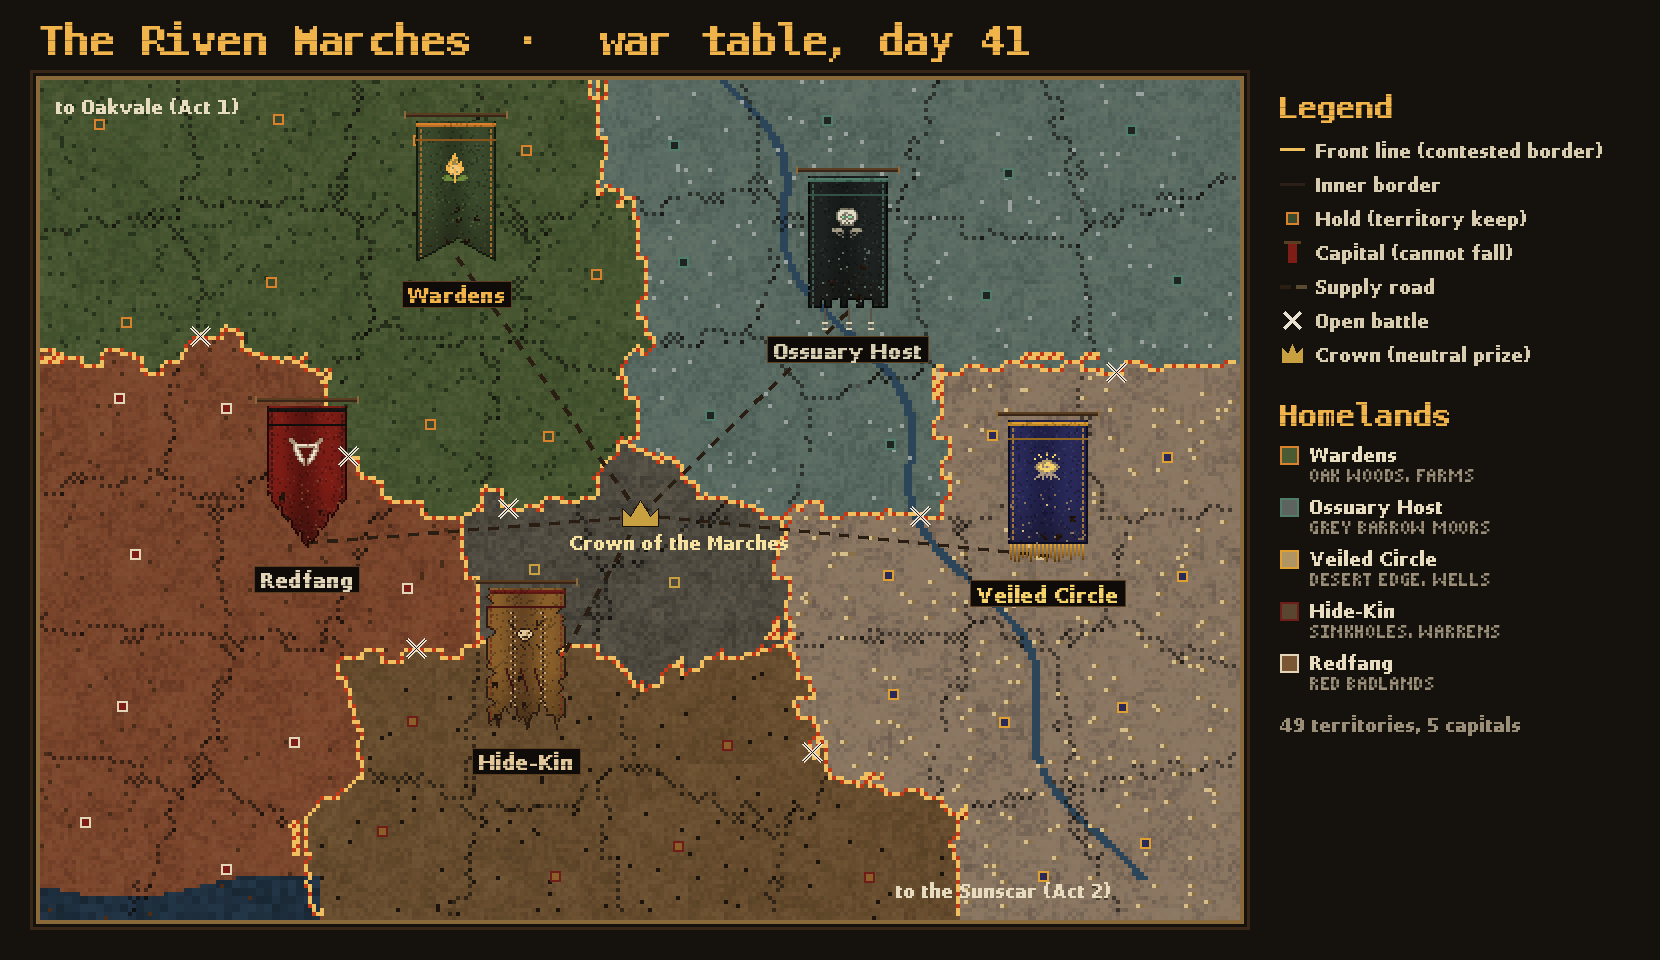
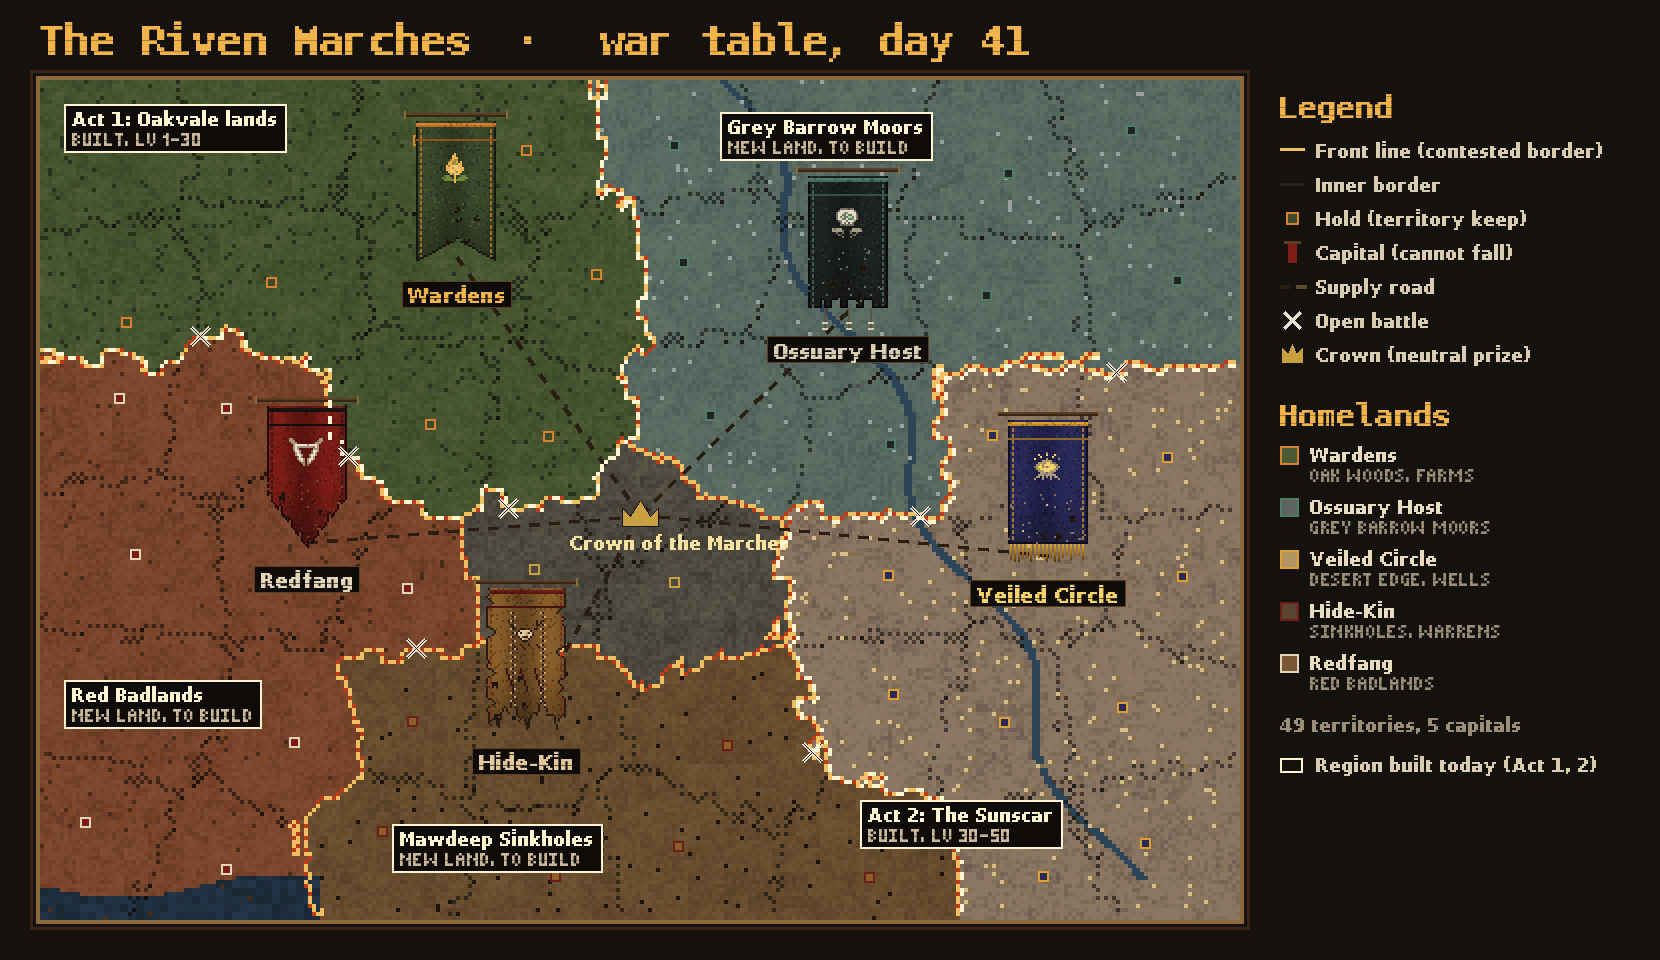
One continent: the acts become regions of the Riven Marches (design page v0.3, map, roadmap)
Claude-Session: https://claude.ai/code/session_01QnG6XwwN1yTMh8reiV1mrQ

diff --git a/client/public/design/riven-marches/index.html b/client/public/design/riven-marches/index.html
@@ -105,12 +105,12 @@ ul { margin: 0; padding-left: 20px; display: flex; flex-direction: column; gap: 
   <div class="eyebrow">Concept design · Clan war open world</div>
   <h1>The Riven Marches</h1>
   <p class="lede">A slow war that never ends, between five clans, across the whole world: Oakvale, the Sunscar and every act still to come. AI warlords lead the clans and try to conquer each other's territory. Left alone, they mostly hold each other in check. Players tip the balance by taking war writs, joining battles at the front, or escorting a single caravan.</p>
-  <div class="meta"><span>Version 0.2 · 14 Nov 2026 (Murat's decisions added)</span><span>Design only, no code changed</span><span>Built on the live game at play.fmtpa.ch</span></div>
+  <div class="meta"><span>Version 0.3 · 14 Nov 2026 (one continent, the acts are regions of it)</span><span>Building: see the roadmap</span><span>Built on the live game at play.fmtpa.ch</span></div>
 </header>
 
 <figure style="margin-top:28px">
-  <img class="px" src="img/riven-marches-map.png" alt="Pixel war-table map of the Riven Marches: five faction homelands around a neutral crown, with front lines in ember and battle markers on the borders">
-  <figcaption>War table sketch, showing the style (the real territories follow the zones of each act). Five capitals, the neutral Crown in the middle. Ember lines are front lines; crossed swords mark open battles.</figcaption>
+  <img class="px" src="img/riven-marches-map.png" alt="Pixel war-table map of the Riven Marches: five homelands around a neutral crown; Act 1 is the Wardens' homeland in the north-west, Act 2 the Veiled Circle's in the south-east, the other three are new lands">
+  <figcaption>The Riven Marches as one continent (sketch). Act 1 (Oakvale lands) is the Wardens' homeland, Act 2 (the Sunscar) the Veiled Circle's. The Grey Barrow Moors, the Red Badlands and the Mawdeep Sinkholes are new lands to build, with the Crown in the middle. Ember lines are front lines; crossed swords mark open battles.</figcaption>
 </figure>
 
 <section>
@@ -150,11 +150,12 @@ ul { margin: 0; padding-left: 20px; display: flex; flex-direction: column; gap: 
   <div class="eyebrow">The world</div>
   <h2>The whole world is the Marches</h2>
   <div class="col stack">
-    <p><b>Murat 2026-11-14:</b> the war runs across the full map, not in a separate region. Every monster zone of Act 1 and Act 2 becomes a territory, and every future act adds its zones as new regions of the same war. "The Riven Marches" is the name of the war and of the war table.</p>
-    <p><b>Territories.</b> About 24 in Act 1 (one per zone in <code>SPAWN_ZONES</code>, big zones split in two) and about 15 in Act 2. The owner decides which clan's troops spawn there, whose banners fly and whose writs are posted. Zone names, levels and quest areas stay as they are.</p>
+    <p><b>Murat 2026-11-14:</b> the Riven Marches is one big continent, and the acts are regions inside it. Act 1 (Oakvale lands) is the Wardens' homeland in the north-west, Act 2 (the Sunscar) the Veiled Circle's in the south-east. Three new lands complete it: the <b>Grey Barrow Moors</b> (Ossuary Host, north-east), the <b>Red Badlands</b> (Redfang, west) and the <b>Mawdeep Sinkholes</b> (Hide-Kin, south), with the <b>Crown of the Marches</b> in the middle. Each new land is built like an act: its own map band, zones, levels, a village and quests, reached by roads and waygates from its neighbours.</p>
+    <p><b>Territories.</b> Every monster zone of every region is a territory: 21 in Act 1 and 10 in Act 2 today, about 10 per new land, about 50 when the continent is complete. The owner decides which clan's troops spawn there, whose banners fly and whose writs are posted. Zone names, levels and quest areas stay as they are. Regions border each other on the war table even where the map bands are apart in the game (a waygate or road links them).</p>
+    <p><b>Until the new lands exist.</b> All five clans already fight over Act 1 and Act 2 (live since 14 Nov). Clans whose homeland is not built yet hold a forward capital there: Redfang Hollow, Greywatch Keep and Thornwood in Act 1, Dustrider Camp, Kharsun and the Humpback Mesas in Act 2. When a homeland is built, its capital moves there and the forward capital becomes an ordinary territory.</p>
     <p><b>Sanctuaries that never flip.</b> Villages (Oakvale, Saltmere, Kel Ashar), dungeons (Mawdeep, the deep crypts), quest-boss lairs and the waygates. New heroes can always level and finish the story; the war is around them, not in their way.</p>
     <p><b>Levels.</b> Each territory keeps its zone level. Clan troops spawn at that level, so a level 8 meadow is a small skirmish and a level 45 dune is a hard front. Players fight where their level fits; high-level heroes can push low territories but earn little there.</p>
-    <p><b>Crowns.</b> One ruined stronghold per act (to pick with the map thread, outside any boss lair) is a Crown: a neutral prize that gives the holder a world-wide boon while held.</p>
+    <p><b>The Crown.</b> The Crown of the Marches, a ruined stronghold in the middle of the continent, is a neutral prize that gives its holder a world-wide boon while held. Until the Crown is built, one ruin per act stands in for it.</p>
   </div>
   <div class="two">
     <div class="stack">
@@ -171,7 +172,7 @@ ul { margin: 0; padding-left: 20px; display: flex; flex-direction: column; gap: 
       <h3>Special places</h3>
       <ul>
         <li><b>Capitals.</b> One per clan. They can be besieged but never fall, so no clan is ever wiped out.</li>
-        <li><b>Crowns.</b> One per act. Holding one gives a world-wide boon for the holder's sworn heroes while it is held.</li>
+        <li><b>The Crown.</b> In the middle of the continent. Holding it gives a world-wide boon for the holder's sworn heroes while it is held.</li>
         <li><b>Warrens.</b> Hide-Kin tunnels that link territories that aren't next to each other. They can be found and collapsed.</li>
         <li><b>Wells and oases.</b> Veiled ritual sites that change weather over nearby territories.</li>
       </ul>
@@ -561,7 +562,8 @@ supply(A)   = 1 / (1 + 0.06 × road distance from capital)    ← overextension<
   <h2>Building it in steps</h2>
   <div class="phases">
     <div class="phase"><div class="n">0</div><div><h3>Foundations</h3><p>Saves to a database, war state as its own small service, a war sim in <code>tools/balance</code>. Nothing visible to players yet.</p></div></div>
-    <div class="phase"><div class="n">1</div><div><h3>The Marches and scripted clans</h3><p>The map band, 49 territories, Holds, standards, ticks and sieges, led by simple scripted doctrine. Prove the stalemate in the sim and live.</p></div></div>
+    <div class="phase"><div class="n">1</div><div><h3>The war goes live</h3><p>The war on Act 1 and Act 2: ticks, sieges, standards, Holds, the front plaque, led by simple scripted doctrine. Prove the stalemate in the sim and live.</p></div></div>
+    <div class="phase"><div class="n">1b</div><div><h3>New lands</h3><p>The Red Badlands, the Grey Barrow Moors, the Mawdeep Sinkholes and the Crown, one at a time, each built like an act and joined to the war map as it opens.</p></div></div>
     <div class="phase"><div class="n">2</div><div><h3>Players at war</h3><p>Swearing, tabards, war writs, caravans, Renown ranks, the war table map, the front plaque.</p></div></div>
     <div class="phase"><div class="n">3</div><div><h3>AI councils</h3><p>First in shadow mode: councils plan and we compare with the scripted doctrine. Then they lead, with herald lines and the chronicle page.</p></div></div>
     <div class="phase"><div class="n">4</div><div><h3>The Forge</h3><p>Codex, recipe checks, art from parameters, hot-loaded content packs.</p></div></div>

diff --git a/client/src/roadmap.ts b/client/src/roadmap.ts
@@ -43,8 +43,8 @@ export const MILESTONES: Milestone[] = [
     ],
   },
   {
-    id: "M1", name: "First Front (vertical slice)", target: "30 Nov – 20 Dec 2026",
-    goal: "One real front in Act 1: Wardens against Redfang over four territories, led by scripted doctrine.",
+    id: "M1", name: "The War Goes Live", target: "14 Nov – 20 Dec 2026",
+    goal: "The war runs live over Act 1 and Act 2 (all five clans, scripted doctrine) and players can take part.",
     exit: "Players can hold standards, see Control move every 10 minutes and join a siege window; it feels good to play.",
     items: [
       { name: "War tick, Control, pressure formula, siege windows in the live game", owner: "Gameplay Engineers", status: "done", note: "server/war.ts runs the whole war (all five clans, both acts) every 10 minutes and saves it" },
@@ -58,7 +58,7 @@ export const MILESTONES: Milestone[] = [
   },
   {
     id: "M2", name: "Five Banners (alpha)", target: "Jan – Feb 2027",
-    goal: "All five clans fight over every zone of Act 1 and Act 2.",
+    goal: "Each clan plays its own way and players live the war: sworn ranks, writs, caravans, the war table.",
     exit: "Without players no clan holds over 30% of the map for more than three days in the sim and live.",
     items: [
       { name: "Ossuary Host siege works, Hide-Kin tunnels, Veiled rituals", owner: "Gameplay Engineers", status: "later" },
@@ -67,6 +67,19 @@ export const MILESTONES: Milestone[] = [
       { name: "War table map (world map overlay)", owner: "Client & UI", status: "later" },
       { name: "Night Raiders hunt the leading clan; Rally for the weakest", owner: "Gameplay Engineers", status: "later" },
       { name: "Clan troops and holds for all five clans", owner: "Art Director", status: "later" },
+    ],
+  },
+  {
+    id: "NL", name: "New Lands of the Marches", target: "Dec 2026 – 2027, alongside the milestones",
+    goal: "The Riven Marches as one continent (Murat 2026-11-14): Act 1 is the Wardens' homeland, Act 2 the Veiled Circle's; three new lands and the Crown complete it.",
+    exit: "Every clan fights from its own homeland; the war table shows the whole continent; each new land has zones, a village, quests and its own levels.",
+    items: [
+      { name: "Continent design: regions, borders between regions, level bands, design page v0.3", owner: "Lead Designer", status: "done" },
+      { name: "Regions in the war map: territories grouped by land, links between lands, capitals move home", owner: "Gameplay Engineers", status: "next" },
+      { name: "The Red Badlands (Redfang homeland, west)", owner: "World + Art + Narrative", status: "later" },
+      { name: "The Grey Barrow Moors (Ossuary Host homeland, north-east)", owner: "World + Art + Narrative", status: "later" },
+      { name: "The Mawdeep Sinkholes (Hide-Kin homeland, south)", owner: "World + Art + Narrative", status: "later" },
+      { name: "The Crown of the Marches (neutral prize in the middle)", owner: "World + Gameplay", status: "later" },
     ],
   },
   {
